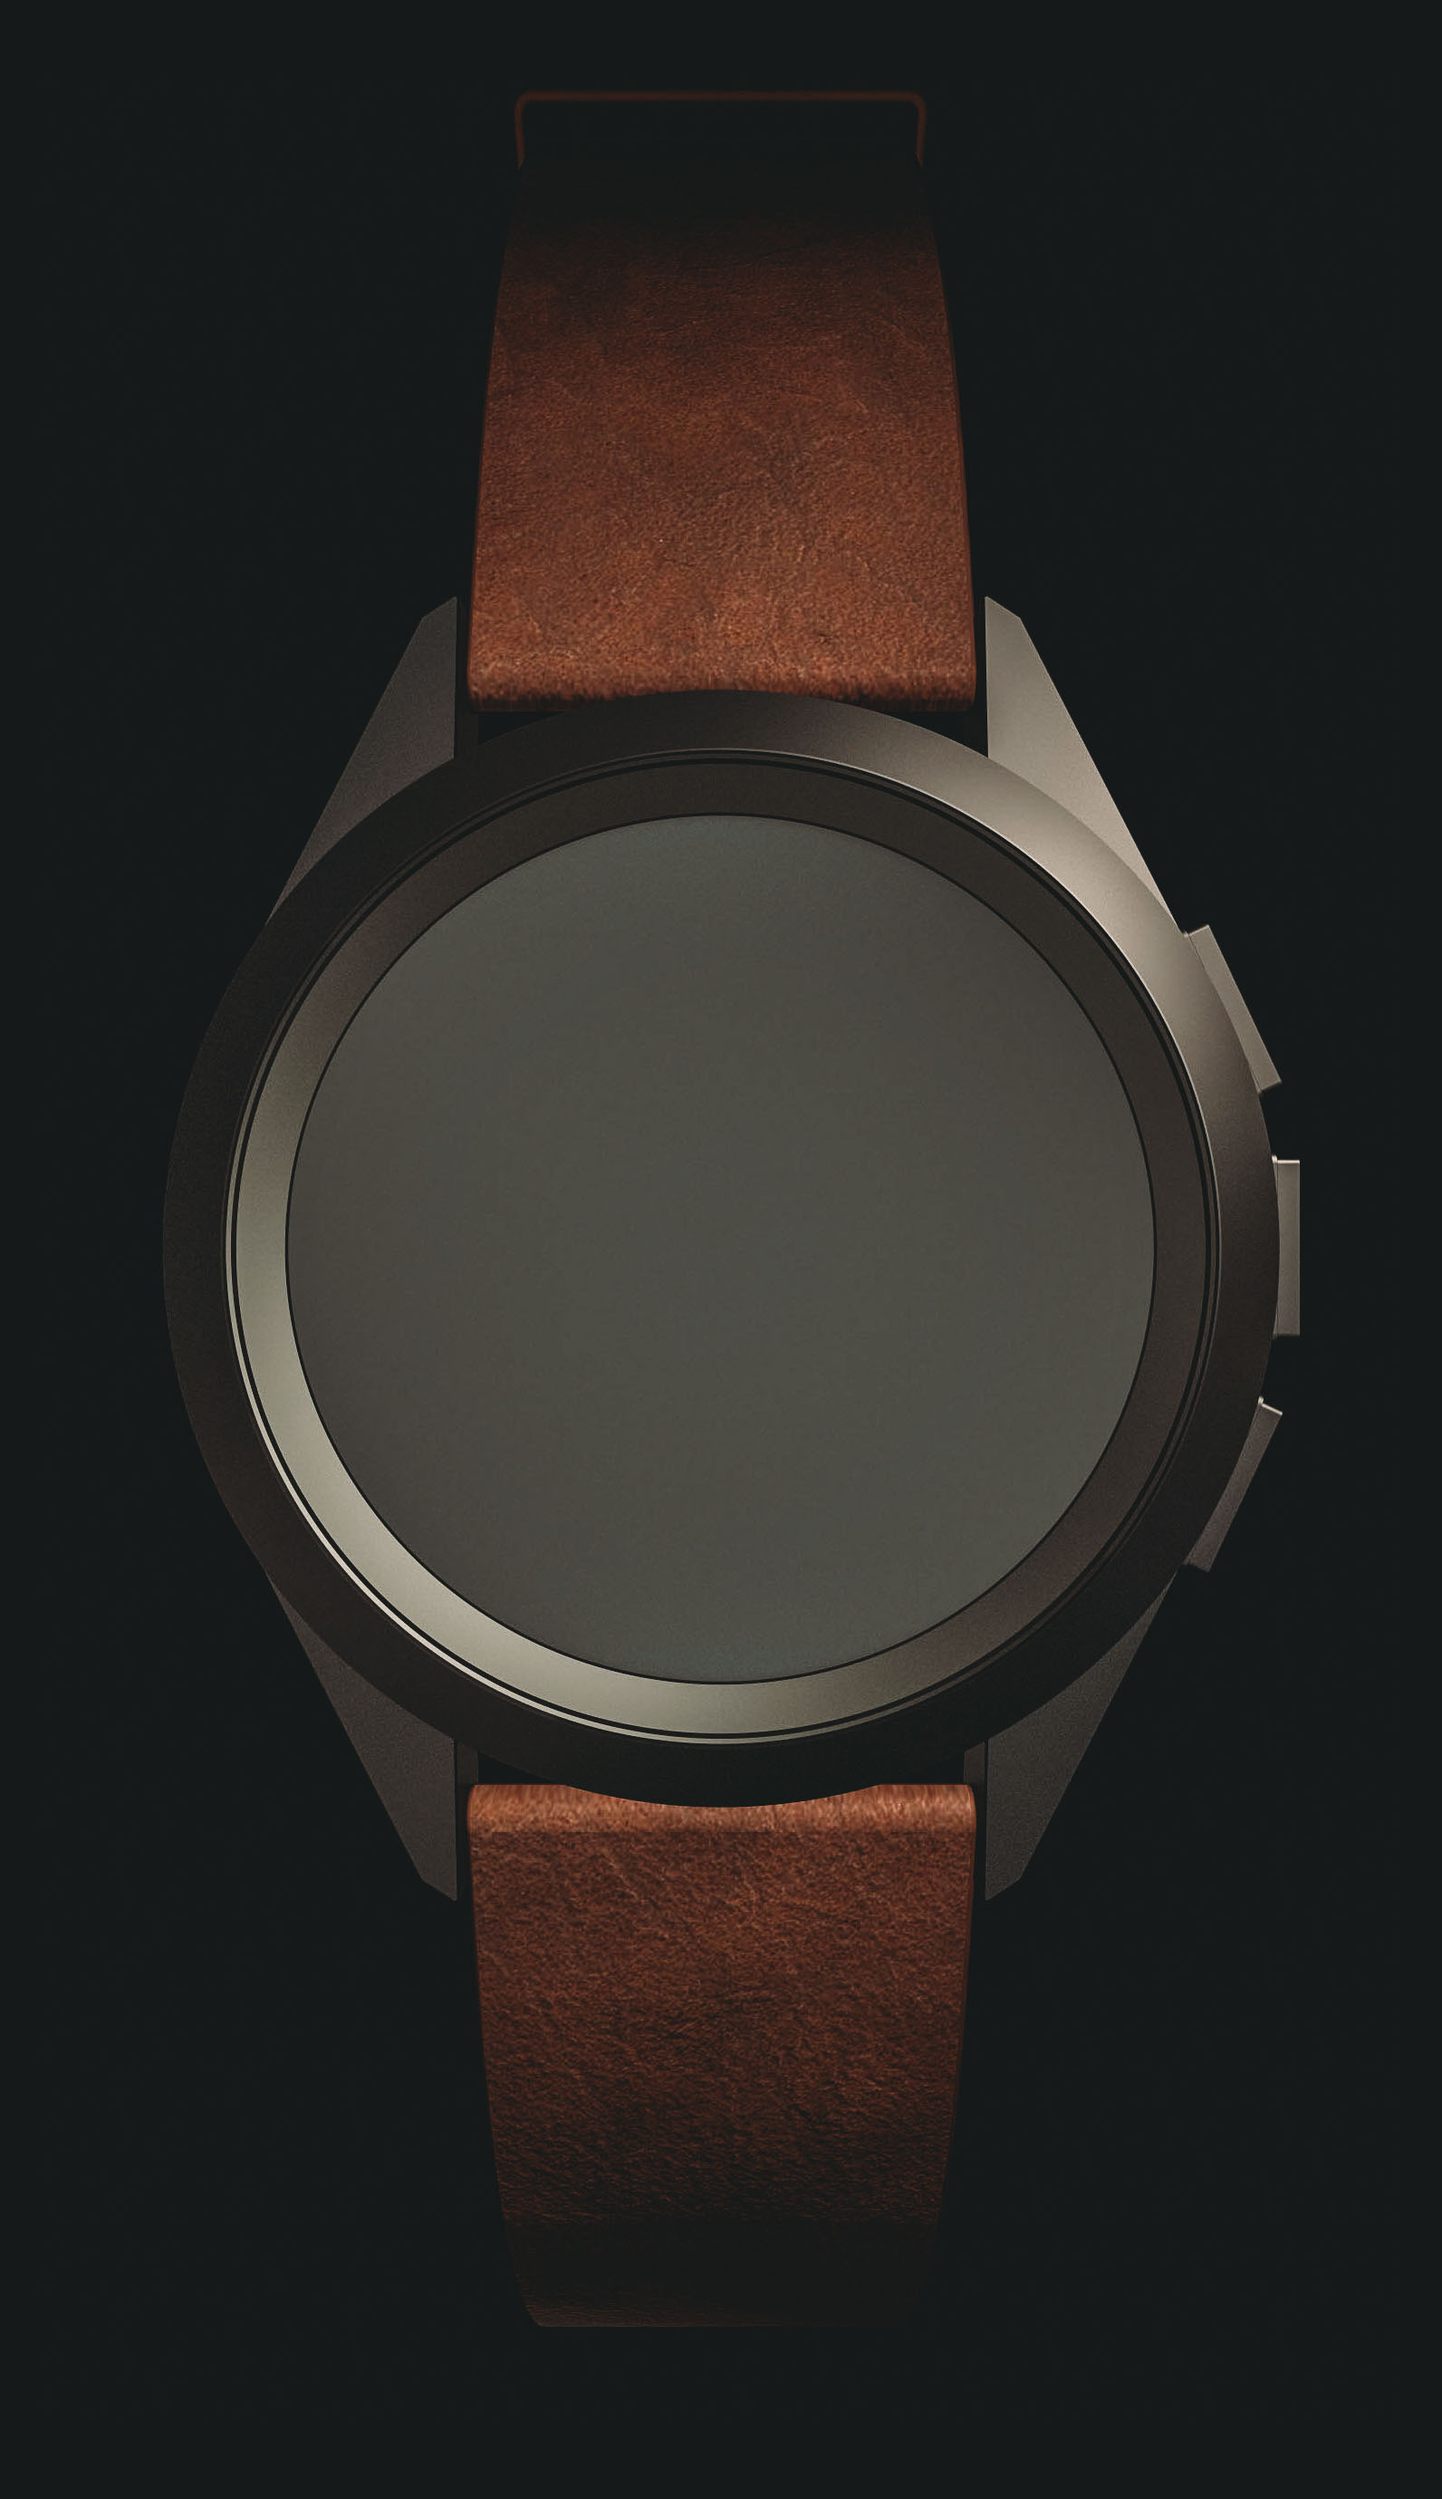
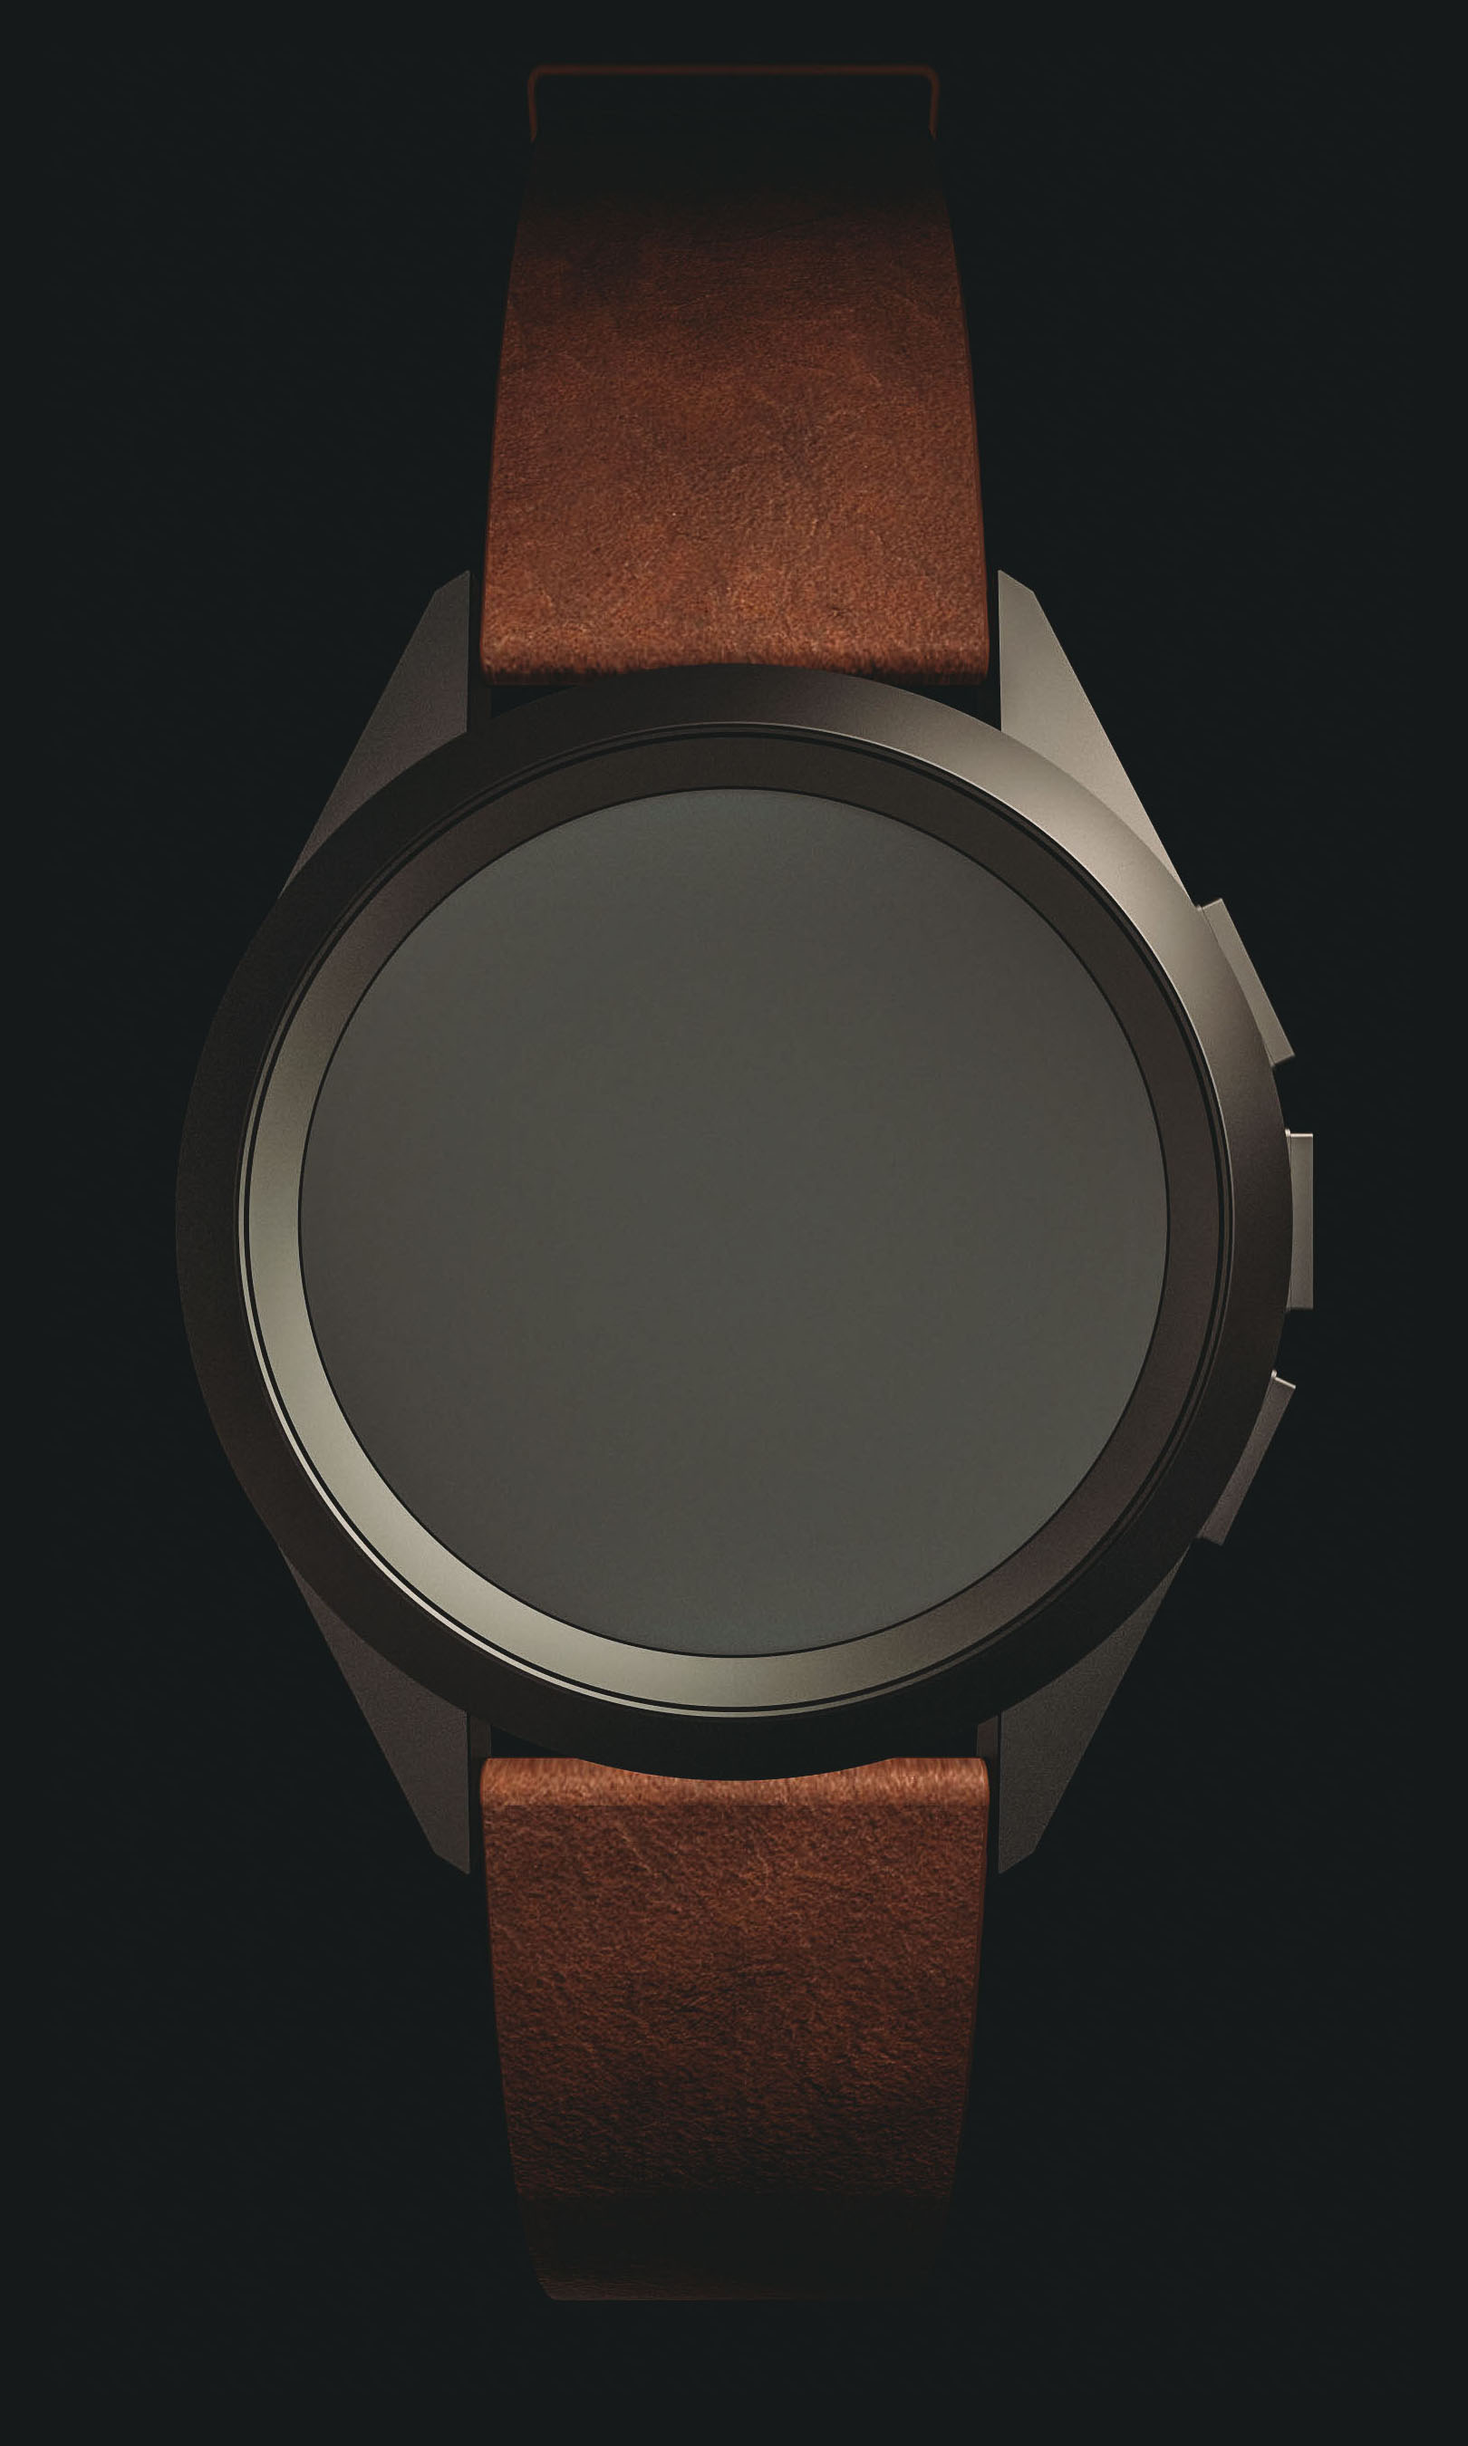
Fixed alignment issues with background on v3

diff --git a/v3/index.js b/v3/index.js
@@ -3,8 +3,8 @@ $(document).ready(function(){
 	watch = {
 		canvas: Snap('.watch'),
 		mode: 0,
-		width: 209,
-		bezel: 30,
+		width: 212,
+		bezel: 31,
 		x: 360 / 2,
 		y: 600 / 2,
 	};
@@ -21,9 +21,9 @@ function setup(watch) {
 	$('.watch')[0].setAttribute('viewBox', '0 0 ' + (watch.x*2) + ' ' + (watch.y*2));
 
 	watch.buttons = {
-		top: newButton(watch, 'top', -25.25, 4, 42, 1),
-		middle: newButton(watch, 'middle', -.25, 4, 42, 1),
-		bottom: newButton(watch, 'bottom', 24.85, 4, 42, 1),
+		top: newButton(watch, 'top', -25.25, 4.5, 42, 1),
+		middle: newButton(watch, 'middle', -.25, 4.5, 42, 1),
+		bottom: newButton(watch, 'bottom', 24.85, 4.5, 42, 1),
 		mask: watch.canvas.circle(watch.x, watch.y, (watch.width/2)+(2*watch.bezel*0.4375) + 3 + 25).attr({'class': 'buttonmask'})
 	};
 	watch.buttons.group = watch.canvas.group(
